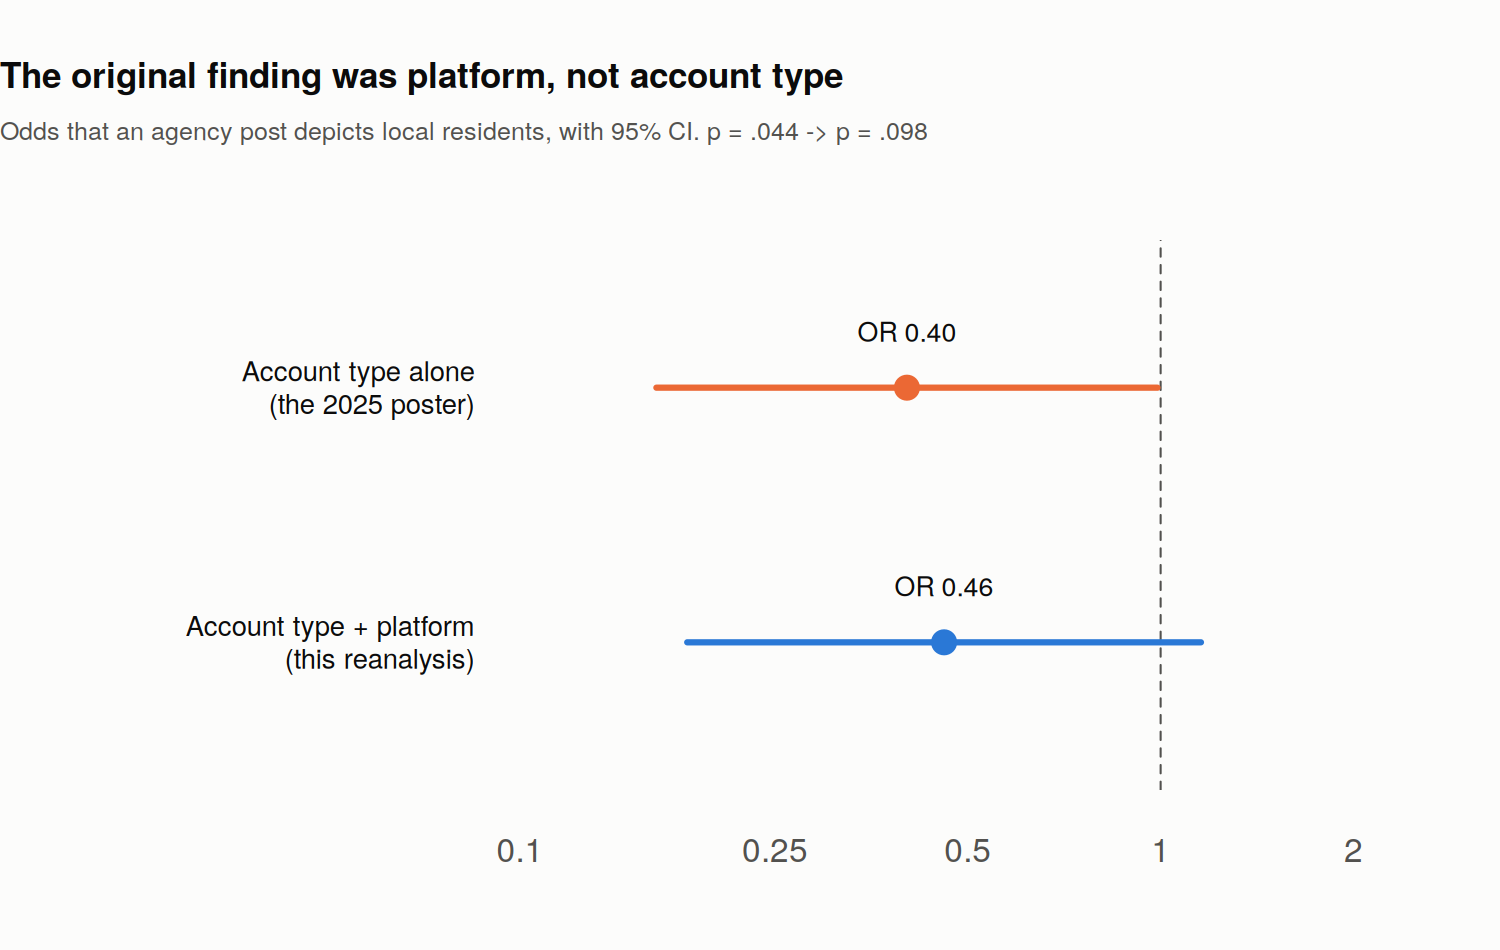
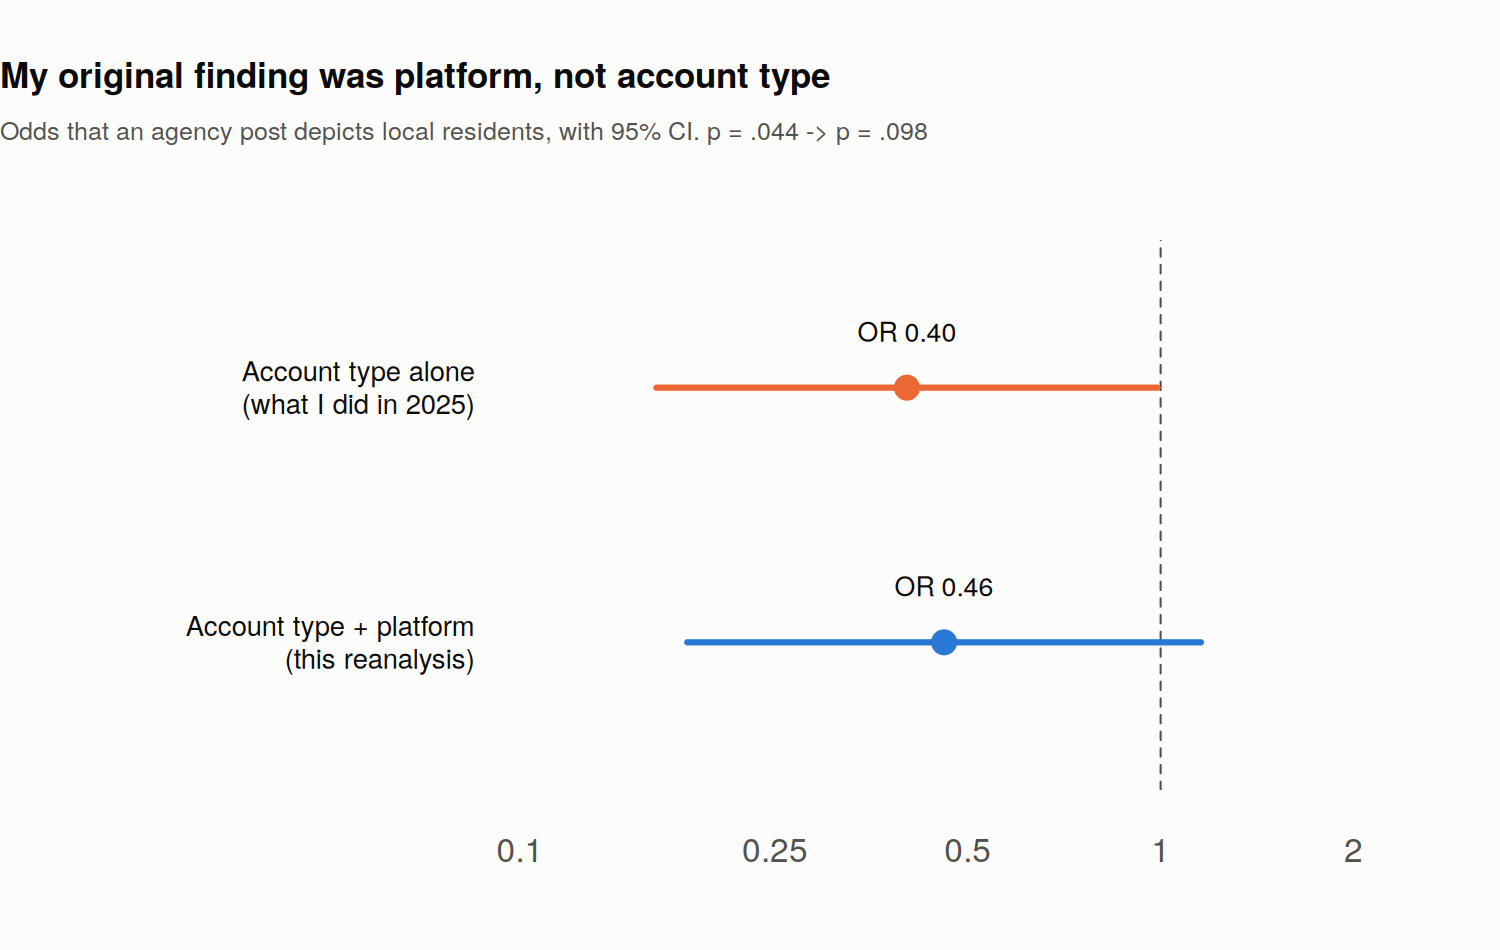
Replace the latent class headline with a counting rule
Three codes describe human presence; a post carrying at least two shows a
populated place. That rule agrees with the latent class model on 97 of 100
posts (kappa 0.93) and survives platform control at p=.031, so it leads and the
model becomes a robustness check. Poisson swapped for a Welch t-test, and the
confounding argument now also appears as a platform-stratified table.

Changed region(s): [[0.0, 0.0611, 0.5827, 0.1221], [0.1533, 0.3968, 0.3067, 0.4579]]

diff --git a/README.md b/README.md
@@ -25,10 +25,17 @@ accounts against TikTok's 54%, and Instagram shows local residents more often
 whoever posts. Put platform in the model and account type falls from p=.044 to
 p=.098.
 
-![The original finding was platform, not account type](figures/04_confounding.png)
+![My original finding was platform, not account type](figures/04_confounding.png)
 
 I also ran fourteen bivariate tests and reported one. Under Holm correction the one
-I reported ranks fourth and doesn't survive, at p_holm = .49. Two others do.
+I reported ranks fourth and doesn't survive, at p_holm = .49. Two others do, and the
+full table is in [`results/01_bivariate_tests.csv`](results).
+
+There's a version of this that needs no model at all. Split the corpus by platform
+and read the four cells: on Instagram, traveller posts show locals 56% of the time
+against agencies' 29%, and on TikTok it's 30% against 22%. The gap is 27 points on
+one platform and 8 on the other. Most of what my 2x2 test measured was the
+difference between Instagram and TikTok.
 
 ## Agencies sell the group; travellers post the solo trip
 
@@ -42,18 +49,25 @@ shows a trip that looks solitary.
 
 ## Two kinds of post, and two thirds leave people out
 
-A latent class model over the seven theme codes selects two classes by BIC: 871.9
-at k=2, against 891.8 at k=1 and 893.8 at k=3, with mean assignment certainty of .94.
+Three of my seven codes describe human presence: locals, cultural practice,
+villages and temples. Count them per post. A post carrying at least two of the
+three is showing a place with people in it; one or none means scenery.
 
-![Two kinds of Ha Giang post](figures/01_class_profiles.png)
+![Two kinds of Ha Giang post](figures/01_content_types.png)
 
-Class A shows a place with people in it. Class B shows the ride and the riders.
-Class B holds 67 of the 100 posts, and 84% of agency posts land there against 57%
-of traveller posts (χ² = 6.33, p = .012).
+66 of the 100 posts are scenery, and 45 carry none of the three codes at all.
+Operator accounts show a populated place in 19% of posts against 43% for traveller
+accounts (χ² = 5.95, p = .015), and unlike my original finding this one holds when
+platform enters the model, at OR = 0.34, p = .031.
+
+You can check that split by hand from the CSV, which is the point of doing it this
+way. [`R/07_latent_class_check.R`](R/07_latent_class_check.R) fits a latent class
+model over all seven codes, chooses two classes by BIC, and lands on the same split:
+the model and the counting rule agree on 97 of 100 posts, Cohen's kappa 0.93.
 
 Platform compresses content independently of who's posting. Instagram posts carry
-3.10 themes on average against TikTok's 2.12 (Poisson, p = .004), while account
-type has no effect on breadth at all (p = .78).
+3.10 themes on average against TikTok's 2.12 (Welch t = 3.72, p = .0003), while
+account type makes no difference to breadth at all (p = .31).
 
 ## TikTok recruits, Instagram archives
 
@@ -112,17 +126,19 @@ here identifies a causal feedback loop. The data are consistent with one.
 
 ## Reproducing
 
-Base R 4.3 or later, no packages. I implemented the latent class model directly in
-[`R/03_latent_class.R`](R/03_latent_class.R) rather than pulling in `poLCA`, so the
-whole repository runs anywhere R does.
+Base R 4.3 or later, no packages. The one model that needs a library, the latent
+class check, is implemented directly in
+[`R/07_latent_class_check.R`](R/07_latent_class_check.R) rather than pulling in
+`poLCA`, so the whole repository runs anywhere R does.
 
 ```bash
 Rscript R/01_content_tests.R     # 14 tests, Holm-corrected
 Rscript R/02_logistic_models.R   # the confounding check
-Rscript R/03_latent_class.R      # model selection and class profiles
+Rscript R/03_content_types.R     # scenery vs populated place
 Rscript R/04_survey.R            # paired platform tests, representation gap
 Rscript R/05_reliability.R       # generates the recode sample (not yet completed)
 Rscript R/06_figures.R           # all four figures
+Rscript R/07_latent_class_check.R  # robustness check on script 03
 ```
 
 Or `bash run_all.sh`. Numbers land in `results/`, figures in `figures/`. Every
@@ -130,7 +146,7 @@ figure above is generated by script; I made none of them by hand.
 
 ```
 data/     content_coding.csv, survey_responses.csv (de-identified), codebook.md
-R/        00_prep.R and the six analysis scripts
+R/        00_prep.R and the seven analysis scripts
 results/  csv output from each script
 figures/  png output from 06_figures.R
 ```
